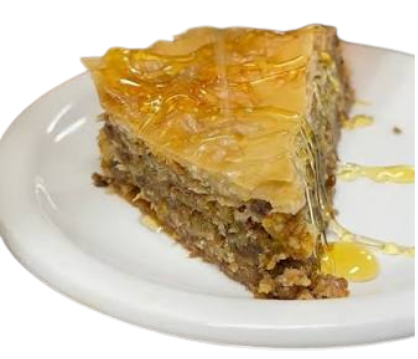
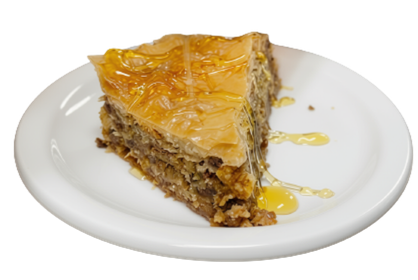
Add menu section styles and update images

diff --git a/style.css b/style.css
@@ -261,6 +261,36 @@ background-color: var(--light-pink-color);
     color: var(--secondary-color);
 }
 
+/* menu section  */
+
+.menu-section {
+    color: var(--white-color);
+    background-color: var(--dark-color);
+}
+
+.menu-section .menu-list{
+    display: flex;
+    flex-wrap: wrap;
+    align-items: center;
+    gap: 110px;
+    justify-content: space-between;
+}
+
+.menu-section .menu-list .menu-item{
+    display: flex;
+    text-align: center;
+    align-items: center;
+    flex-direction: column;
+    width: calc(100%/3 - 110px);
+    justify-content: space-between;
+}
+
+.menu-section .menu-list .menu-item .menu-image{
+    max-width: 83%;
+    aspect-ratio: 1;
+    object-fit: contain;
+}
+
 @media screen and (max-width: 900px) {
 
     :root{
